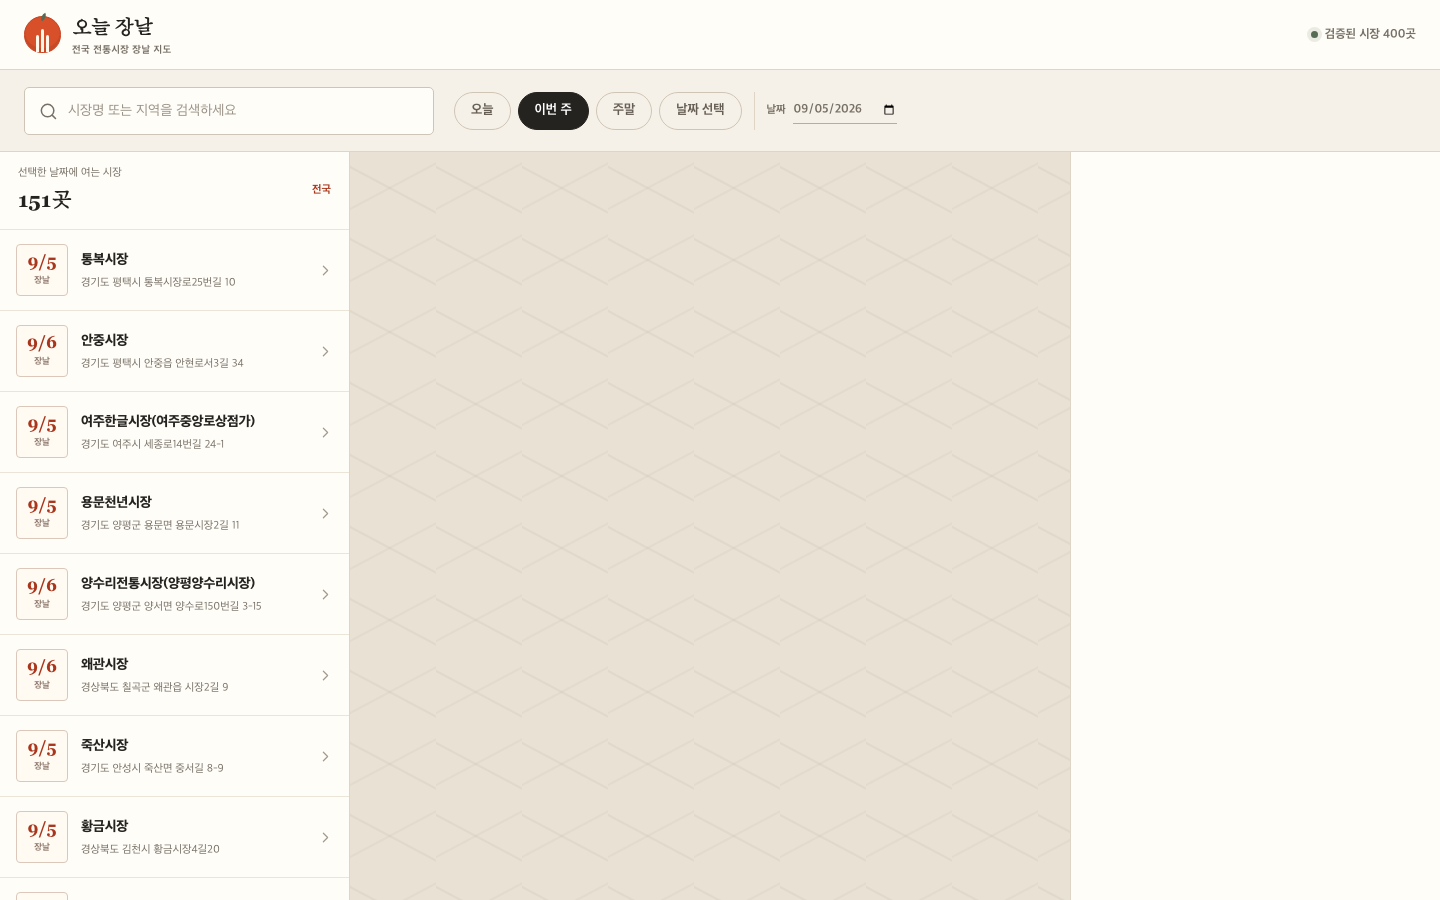
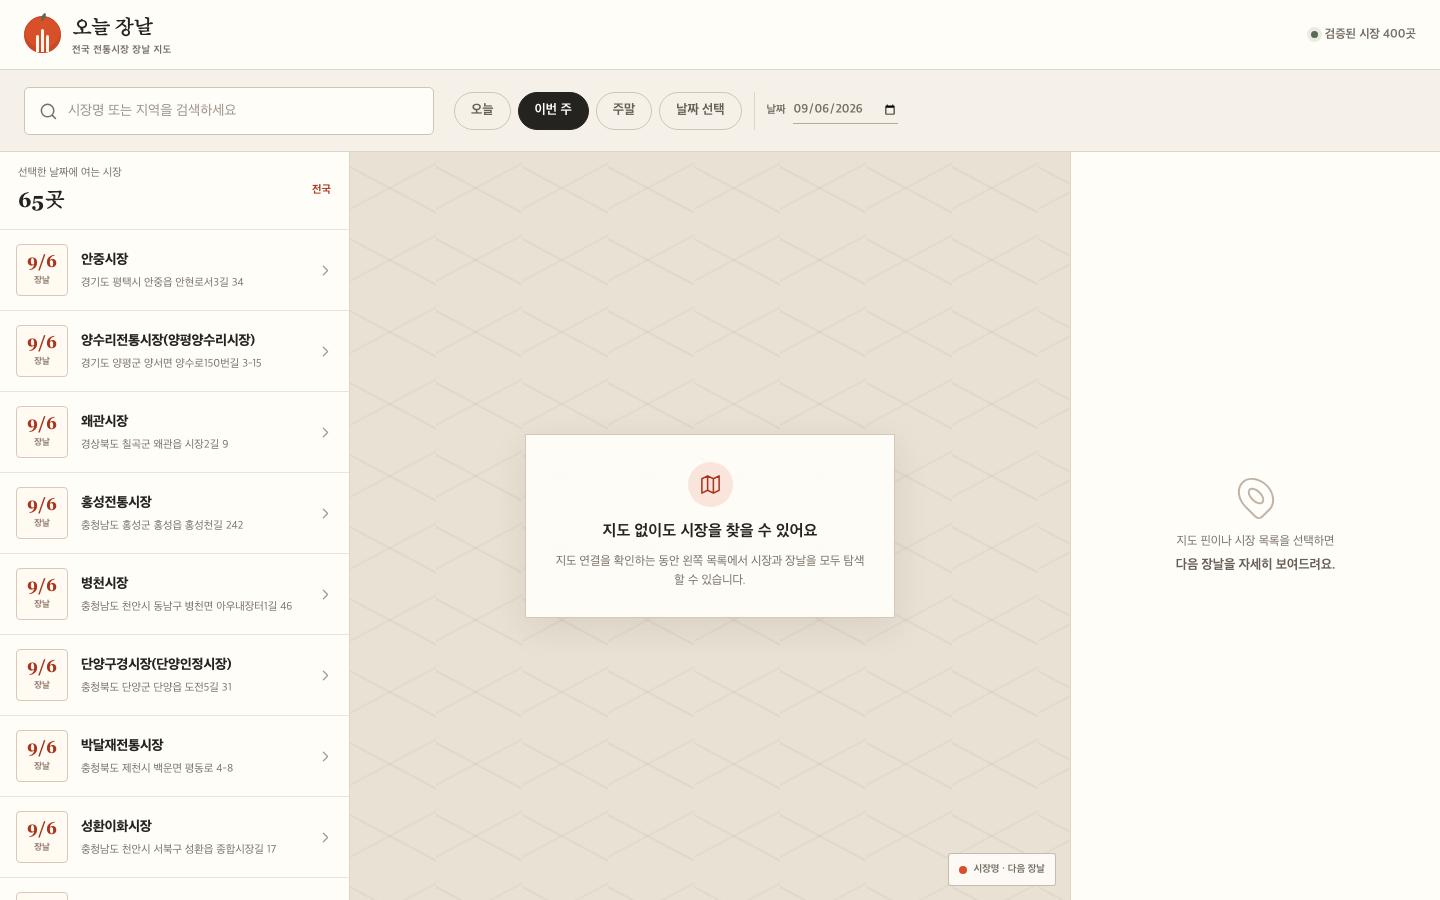
fix: finalize static MVP review findings

diff --git a/apps/web/src/components/market-explorer.tsx b/apps/web/src/components/market-explorer.tsx
@@ -24,6 +24,7 @@ interface MarketExplorerProps {
 }
 
 const validModes = new Set<DateFilterMode>(["today", "week", "weekend", "date"]);
+const staticRenderDate = new Date(2000, 0, 15);
 
 const readUrlState = (today: Date): ExplorerInitialState => {
   if (typeof window === "undefined") return {};
@@ -45,9 +46,10 @@ async function fetchMarkets(): Promise<PublicMarket[]> {
   return data as PublicMarket[];
 }
 
-function MarketExplorerContent({ today = new Date(), mapClientId = "", initialState }: MarketExplorerProps) {
+function MarketExplorerContent({ today: providedToday, mapClientId = "", initialState }: MarketExplorerProps) {
+  const [today, setToday] = useState(() => providedToday ?? staticRenderDate);
   const resolvedInitial = useMemo(() => {
-    const rawState = { ...readUrlState(today), ...initialState };
+    const rawState = initialState ?? {};
     const mode = rawState.mode && validModes.has(rawState.mode) ? rawState.mode : "week";
     const directDate = toIsoDate(normalizeDirectDate(rawState.directDate ?? toIsoDate(today), today));
     return { ...rawState, mode, directDate };
@@ -56,6 +58,7 @@ function MarketExplorerContent({ today = new Date(), mapClientId = "", initialSt
   const [mode, setMode] = useState<DateFilterMode>(resolvedInitial.mode ?? "week");
   const [directDate, setDirectDate] = useState(resolvedInitial.directDate ?? toIsoDate(today));
   const [selectedId, setSelectedId] = useState<string | null>(resolvedInitial.selectedId ?? null);
+  const [hasRestoredUrl, setHasRestoredUrl] = useState(false);
   const { data: markets = [], isPending, isError, refetch } = useQuery({
     queryKey: ["public-markets"],
     queryFn: fetchMarkets,
@@ -75,6 +78,18 @@ function MarketExplorerContent({ today = new Date(), mapClientId = "", initialSt
   }, [filteredMarkets, isPending, selectedId]);
 
   useEffect(() => {
+    const clientToday = providedToday ?? new Date();
+    if (!providedToday) setToday(clientToday);
+    const urlState = readUrlState(clientToday);
+    setQuery(urlState.query ?? "");
+    setMode(urlState.mode ?? "week");
+    setDirectDate(urlState.directDate ?? toIsoDate(clientToday));
+    setSelectedId(urlState.selectedId ?? null);
+    setHasRestoredUrl(true);
+  }, [providedToday]);
+
+  useEffect(() => {
+    if (!hasRestoredUrl) return;
     const params = new URLSearchParams();
     if (query.trim()) params.set("q", query.trim());
     if (mode !== "week") params.set("when", mode);
@@ -82,7 +97,7 @@ function MarketExplorerContent({ today = new Date(), mapClientId = "", initialSt
     if (selectedId) params.set("market", selectedId);
     const suffix = params.toString();
     window.history.replaceState(null, "", suffix ? `/?${suffix}` : "/");
-  }, [directDate, mode, query, selectedId]);
+  }, [directDate, hasRestoredUrl, mode, query, selectedId]);
 
   const selectMarket = useCallback((market: PublicMarket) => setSelectedId(market.id), []);
   const resetFilters = () => {

diff --git a/apps/web/src/app/globals.css b/apps/web/src/app/globals.css
@@ -48,7 +48,8 @@ a { color: inherit; text-decoration: none; }
 
 .explorer-shell {
   display: flex;
-  min-height: 100dvh;
+  height: 100dvh;
+  min-height: 0;
   flex-direction: column;
   overflow: hidden;
   background: var(--paper);
@@ -370,16 +371,18 @@ a { color: inherit; text-decoration: none; }
 
 @media (max-width: 980px) and (min-width: 701px) {
   .explorer-grid { grid-template-columns: 300px minmax(380px, 1fr); grid-template-areas: "list map"; }
-  .detail-pane { position: fixed; z-index: 40; top: 152px; right: 0; bottom: 0; display: none; width: 350px; box-shadow: var(--shadow); }
+  .detail-pane { position: fixed; z-index: 40; top: 181px; right: 0; bottom: 0; display: none; width: 350px; box-shadow: var(--shadow); }
   .explorer-grid.has-selection .detail-pane { display: block; }
   .market-filters { grid-template-columns: 280px 1fr; padding-right: 14px; padding-left: 14px; }
+  .date-filter-row { flex-wrap: wrap; gap: 7px; }
   .filter-pills { gap: 5px; }
   .filter-pill { padding: 0 10px; font-size: 12px; }
-  .direct-date { display: none; }
+  .direct-date { flex-basis: 100%; border-left: 0; padding-left: 0; }
+  .direct-date span { display: inline; }
 }
 
 @media (max-width: 700px) {
-  .explorer-shell { min-height: 100dvh; overflow: visible; }
+  .explorer-shell { height: auto; min-height: 100dvh; overflow: visible; }
   .app-header { min-height: 59px; padding: 0 16px; }
   .brand-mark { width: 33px; height: 33px; }
   .brand strong { font-size: 18px; }

diff --git a/apps/web/src/app/page.tsx b/apps/web/src/app/page.tsx
@@ -1,20 +1,5 @@
-import { MarketExplorer, type ExplorerInitialState } from "../components/market-explorer";
-import type { DateFilterMode } from "../components/market-filters";
+import { MarketExplorer } from "../components/market-explorer";
 
-interface HomePageProps {
-  searchParams: Promise<Record<string, string | string[] | undefined>>;
-}
-
-const firstValue = (value: string | string[] | undefined): string | undefined => Array.isArray(value) ? value[0] : value;
-
-export default async function HomePage({ searchParams }: HomePageProps) {
-  const params = await searchParams;
-  const initialState: ExplorerInitialState = {
-    query: firstValue(params.q),
-    mode: firstValue(params.when) as DateFilterMode | undefined,
-    directDate: firstValue(params.date),
-    selectedId: firstValue(params.market),
-  };
-
-  return <MarketExplorer mapClientId={process.env.NEXT_PUBLIC_NAVER_MAPS_CLIENT_ID ?? ""} initialState={initialState} />;
+export default function HomePage() {
+  return <MarketExplorer mapClientId={process.env.NEXT_PUBLIC_NAVER_MAPS_CLIENT_ID ?? ""} />;
 }

diff --git a/.superpowers/sdd/2026-09-03-static-mvp/task-4-report.md b/.superpowers/sdd/2026-09-03-static-mvp/task-4-report.md
@@ -1,0 +1,50 @@
+# Task 4 보고서: 로컬 브라우저 검증과 배포 전 준비
+
+## 결과
+
+완료. Vercel 배포는 실행하지 않았다.
+
+## 실행 및 검증
+
+- `pnpm test`: 통과, 11개 테스트 파일과 41개 테스트
+- `pnpm typecheck`: 통과
+- `pnpm build`: 통과
+- 로컬 Next.js production 서버에서 `NEXT_PUBLIC_NAVER_MAPS_CLIENT_ID` 없이 검증
+- 1440px: 목록 대체, 평택 검색, 통복시장 선택, 다음 장날, 출처, 직접 날짜, 검색 결과 없음과 복구를 확인
+- 375px: 검색·필터·상세를 확인했고 가로 오버플로우가 없음을 확인
+- 모든 브라우저 확인 시 콘솔 오류 없음
+
+## 발견한 문제와 수정
+
+모바일 375px에서 날짜 입력이 필터 버튼과 한 가로 스크롤 행을 공유해 끝부분이 잘렸다. `apps/web/src/app/globals.css`의 모바일 규칙에서 날짜 입력을 전체 폭의 다음 행으로 이동했다. 수정 뒤 production build와 375px 상세 흐름을 다시 확인했다.
+
+## 생성물
+
+- `apps/web/.env.example`: 선택형 NAVER Maps 환경 변수 예시
+- `README.md`: 설치, 데이터 생성, 개발/프로덕션 실행, 키 설정, Vercel 설정 안내
+- `outputs/정적-MVP-검증결과.md`: 검증 표와 스크린샷 경로
+- `outputs/screenshots/`: 데스크톱·모바일 검증 스크린샷
+
+## 배포 전 우려 사항
+
+- NAVER 지도 SDK를 실제로 표시하려면 운영 NAVER Maps client ID가 필요하다. 이번 범위에서는 키 없는 목록 대체 흐름만 검증했다.
+- Vercel에서는 Root Directory를 `apps/web`으로 지정하고, 지도를 쓸 경우 `NEXT_PUBLIC_NAVER_MAPS_CLIENT_ID`를 Production 환경 변수로 등록해야 한다.
+
+## 증빙 보정 (fix round 1)
+
+로컬 production 서버를 다시 열어 실제 1440 × 900 viewport로 상태별 스크린샷을 저장했다. `file` 메타데이터는 아래 6개 파일이 모두 `PNG image data, 1440 x 900`임을 확인했다.
+
+- `outputs/screenshots/desktop-initial-1440.png`: 키 없는 지도 대체와 목록
+- `outputs/screenshots/desktop-search-1440.png`: 평택 검색
+- `outputs/screenshots/desktop-selected-1440.png`: 통복시장 상세·다음 장날·출처
+- `outputs/screenshots/desktop-direct-date-1440.png`: 2026-09-08 직접 날짜
+- `outputs/screenshots/desktop-no-results-1440.png`: 없는지역 빈 상태
+- `outputs/screenshots/desktop-recovery-1440.png`: 검색어 지우기 후 목록 복구
+
+새 캡처에서 콘솔 오류는 없었다. `.gitignore`의 `.gstack/` 줄은 이 Task 4에서 추가하지 않았으므로 변경하지 않았다.
+
+## 최종 보정 (static MVP final fix)
+
+`desktop-initial-1440.png`를 다시 확인한 결과, 이전 캡처는 목록 높이가 전체 grid를 늘려 대체 메시지가 첫 viewport 아래에 있어 설명과 일치하지 않았다. 데스크톱 explorer shell을 viewport 높이로 제한한 뒤 로컬 production에서 다시 캡처했다. 현재 증빙은 실제 1440 × 900 초기 viewport 중앙에 “지도 없이도 시장을 찾을 수 있어요” 메시지를 표시한다.
+
+768px에서는 직접 날짜 입력을 필터 pill 다음 행으로 배치했다. `2026-09-08` 입력이 가능하고 URL이 `?when=date&date=2026-09-08`으로 반영되는 것을 `outputs/screenshots/tablet-direct-date-768.png`에서 확인했다.

diff --git a/.superpowers/sdd/2026-09-03-static-mvp/final-fix-report.md b/.superpowers/sdd/2026-09-03-static-mvp/final-fix-report.md
@@ -1,0 +1,35 @@
+# Static MVP final-fix report
+
+검증일: 2026-09-06
+
+## 완료한 수정
+
+- README의 데이터 생성 명령을 data-audit 작업 디렉터리 기준 경로로 수정했다.
+  - 입력: `data/raw/markets.csv`
+  - 출력: `../../apps/web/public/data/markets.json`
+- 701px~980px tablet 범위에서 직접 날짜 입력을 숨기지 않고 filter pills 아래 행으로 배치했다.
+- `/` 페이지에서 server `searchParams` 대기를 제거했다. URL의 검색어·날짜·선택 시장 상태는 hydration 뒤 client effect에서 복원하므로 페이지는 정적으로 prerender된다.
+- `apps/web/.env*.local`을 gitignore에 추가했고 `apps/web/.env.example`은 계속 추적된다.
+- 데스크톱 shell 높이를 viewport로 고정해 키 없는 지도 fallback이 첫 viewport의 중앙에 표시되도록 했다.
+
+## 명령 검증
+
+| 명령 | 결과 |
+| --- | --- |
+| `pnpm --filter jangnal-market-data-audit generate -- --input data/raw/markets.csv --encoding euc-kr --output ../../apps/web/public/data/markets.json` | 통과. 400행 생성 |
+| `pnpm --filter @jangnal-map/web test` | 통과. 5개 파일, 16개 테스트 |
+| `pnpm typecheck` | 통과 |
+| `pnpm build` | 통과. Next build route 표에서 `/`가 `○ (Static)` |
+
+## 브라우저 검증
+
+- 로컬 production 서버, NAVER Maps client ID 없이 확인했다.
+- 1440 × 900: `outputs/screenshots/desktop-initial-1440.png`에서 “지도 없이도 시장을 찾을 수 있어요” fallback이 map stage 중앙에 보인다. 측정된 message와 stage의 세로 중앙은 동일했다.
+- 768 × 1024: `outputs/screenshots/tablet-direct-date-768.png`에서 직접 날짜 입력이 filter pills 아래에 표시된다. `2026-09-08`을 입력했으며 URL은 `?when=date&date=2026-09-08`으로 변경됐다. document `scrollWidth`와 `clientWidth`는 모두 768이었다.
+- Deep link `/?q=평택&when=date&date=2026-09-08`은 hydration 뒤 검색어 “평택”, 날짜 “2026-09-08”, “날짜 선택” mode로 복원됐다.
+- 브라우저 콘솔 오류는 없었다.
+
+## 범위 외 우려
+
+- 실제 NAVER 지도 렌더링은 여전히 배포 환경의 `NEXT_PUBLIC_NAVER_MAPS_CLIENT_ID`가 있어야 한다. 이번 검증은 의도대로 키 없는 목록 fallback을 확인했다.
+- Vercel 명령은 실행하지 않았다.

diff --git a/outputs/정적-MVP-검증결과.md b/outputs/정적-MVP-검증결과.md
@@ -1,6 +1,6 @@
 # 정적 MVP 검증 결과
 
-검증일: 2026-09-05
+검증일: 2026-09-06
 
 환경: 로컬 Next.js production build, `NEXT_PUBLIC_NAVER_MAPS_CLIENT_ID` 미설정, Chromium 브라우저
 
@@ -8,7 +8,8 @@
 
 | 명령 | 결과 |
 | --- | --- |
-| `pnpm test` | 통과: 11개 테스트 파일, 41개 테스트 |
+| `pnpm --filter jangnal-market-data-audit generate -- --input data/raw/markets.csv --encoding euc-kr --output ../../apps/web/public/data/markets.json` | 통과: 공개 시장 데이터 400건 생성 |
+| `pnpm --filter @jangnal-map/web test` | 통과: 5개 테스트 파일, 16개 테스트 |
 | `pnpm typecheck` | 통과 |
 | `pnpm build` | 통과: Next.js production build |
 
@@ -24,10 +25,11 @@
 | 1440px 검색 복구 | 통과: 검색어 지우기 후 날짜 목록을 다시 표시 | `outputs/screenshots/desktop-recovery-1440.png` |
 | 375px 검색과 필터 | 통과: 평택 검색 결과 2건, 가로 오버플로우 없음 | `outputs/screenshots/mobile-search-375.png` |
 | 375px 시장 선택과 상세 | 통과: 상세·다음 장날·출처를 표시하고 가로 오버플로우 없음 | `outputs/screenshots/mobile-selected-375-fixed.png` |
+| 768px 직접 날짜 | 통과: 날짜 입력이 필터 아래 행에 표시되고 2026-09-08 입력 및 URL 반영 | `outputs/screenshots/tablet-direct-date-768.png` |
 
 모든 확인 시점에서 브라우저 콘솔 오류는 없었습니다. 네트워크 요청은 HTML, Next 정적 자산 및 `/data/markets.json`에서 모두 200 응답을 받았습니다.
 
-1440px 증빙 파일은 `file` 메타데이터로 모두 1440 × 900 PNG임을 확인했습니다.
+`desktop-initial-1440.png`는 실제 1440 × 900 초기 viewport에서 중앙의 “지도 없이도 시장을 찾을 수 있어요” 대체 메시지가 보이는 캡처로 다시 저장했습니다.
 
 ## 발견·수정
 

diff --git a/README.md b/README.md
@@ -14,9 +14,9 @@ pnpm install
 
 ```bash
 pnpm --filter jangnal-market-data-audit generate -- \
-  --input work/data-audit/data/raw/markets.csv \
+  --input data/raw/markets.csv \
   --encoding euc-kr \
-  --output apps/web/public/data/markets.json
+  --output ../../apps/web/public/data/markets.json
 ```
 
 ## 로컬 실행
